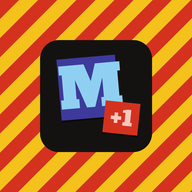
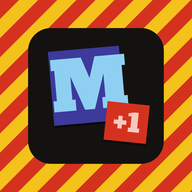
Icône Android : liseré rayé affiné pour les lanceurs Samsung
Samsung affiche environ 81 % central de l'icône (et non 66,7 %) : le
liseré rayé apparaissait trop épais. Le dessin validé est replacé pour
retrouver un liseré fin chez Samsung, tuiles toujours entières ailleurs.
Versions de la fiche, des icônes et du cache relevées.

Claude-Session: https://claude.ai/code/session_01SJPh5mHLKP6ge1hmvW5owf

Changed region(s): [[0.125, 0.125, 0.875, 0.875]]

diff --git a/index.html b/index.html
@@ -6,9 +6,9 @@
 <meta name="theme-color" content="#141210">
 <title>Compteur de Miams</title>
 <!-- Appli installable : fiche, icônes et réglages pour l'écran d'accueil -->
-<link rel="manifest" href="manifest.webmanifest?v=4">
-<link rel="icon" type="image/png" sizes="32x32" href="icons/icon-32.png?v=4">
-<link rel="apple-touch-icon" href="icons/icon-180.png?v=4">
+<link rel="manifest" href="manifest.webmanifest?v=5">
+<link rel="icon" type="image/png" sizes="32x32" href="icons/icon-32.png?v=5">
+<link rel="apple-touch-icon" href="icons/icon-180.png?v=5">
 <meta name="apple-mobile-web-app-capable" content="yes">
 <meta name="mobile-web-app-capable" content="yes">
 <meta name="apple-mobile-web-app-status-bar-style" content="black-translucent">

diff --git a/sw.js b/sw.js
@@ -1,7 +1,7 @@
 // Fait fonctionner l'appli hors ligne une fois installée.
 // Stratégie : on répond tout de suite avec la version en mémoire, et on va chercher
 // une éventuelle mise à jour en arrière-plan pour le prochain lancement.
-const CACHE = "miams-v4";
+const CACHE = "miams-v5";
 const FILES = ["./", "index.html", "manifest.webmanifest", "icons/icon-192.png", "icons/icon-512.png", "icons/icon-180.png", "icons/icon-32.png", "icons/icon-maskable-192.png", "icons/icon-maskable-512.png"];
 
 self.addEventListener("install", (event) => {
